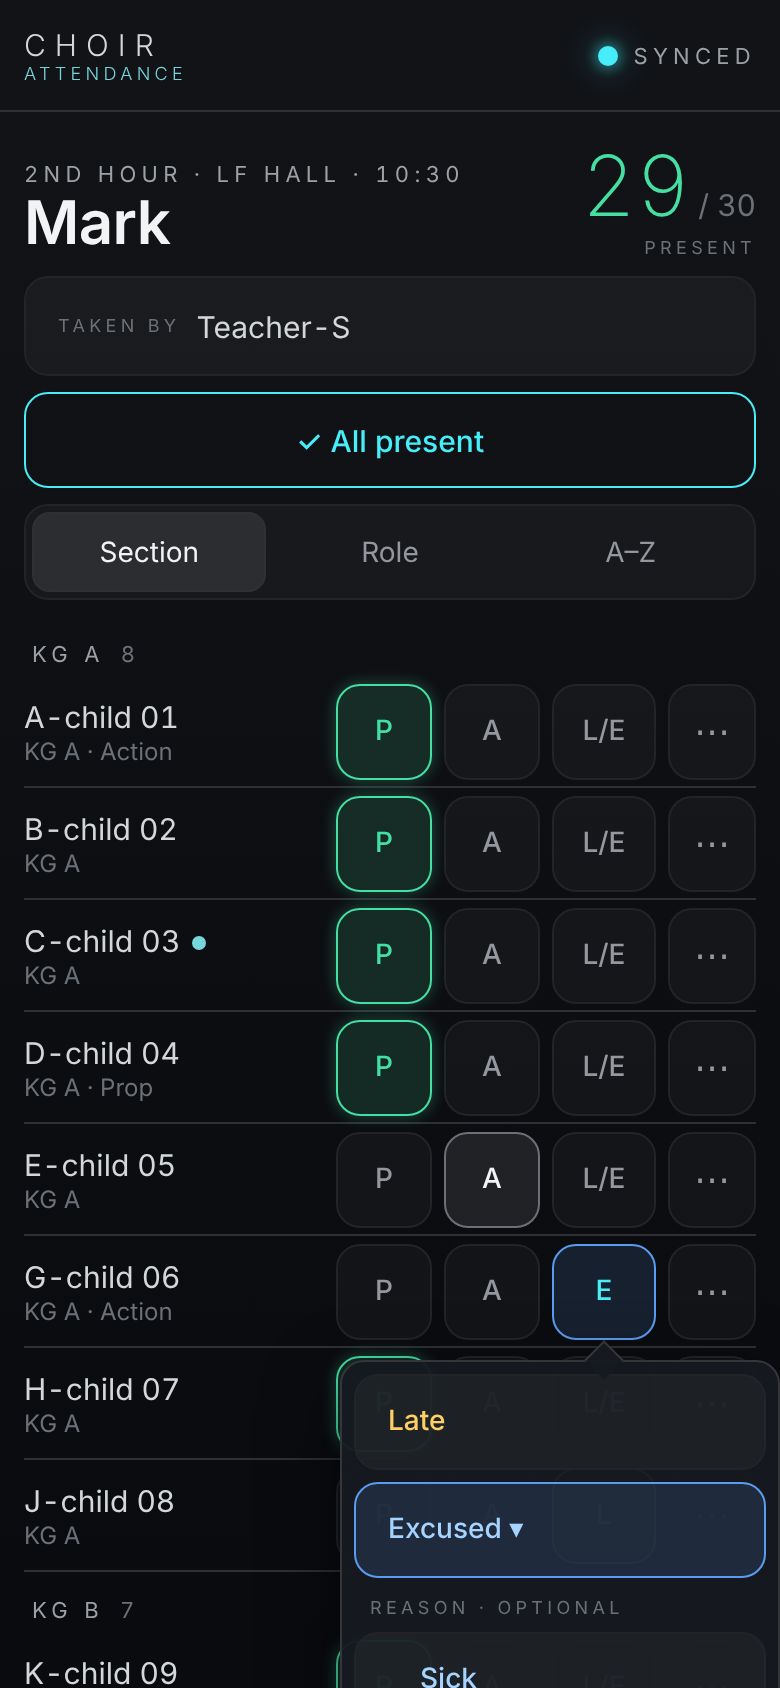
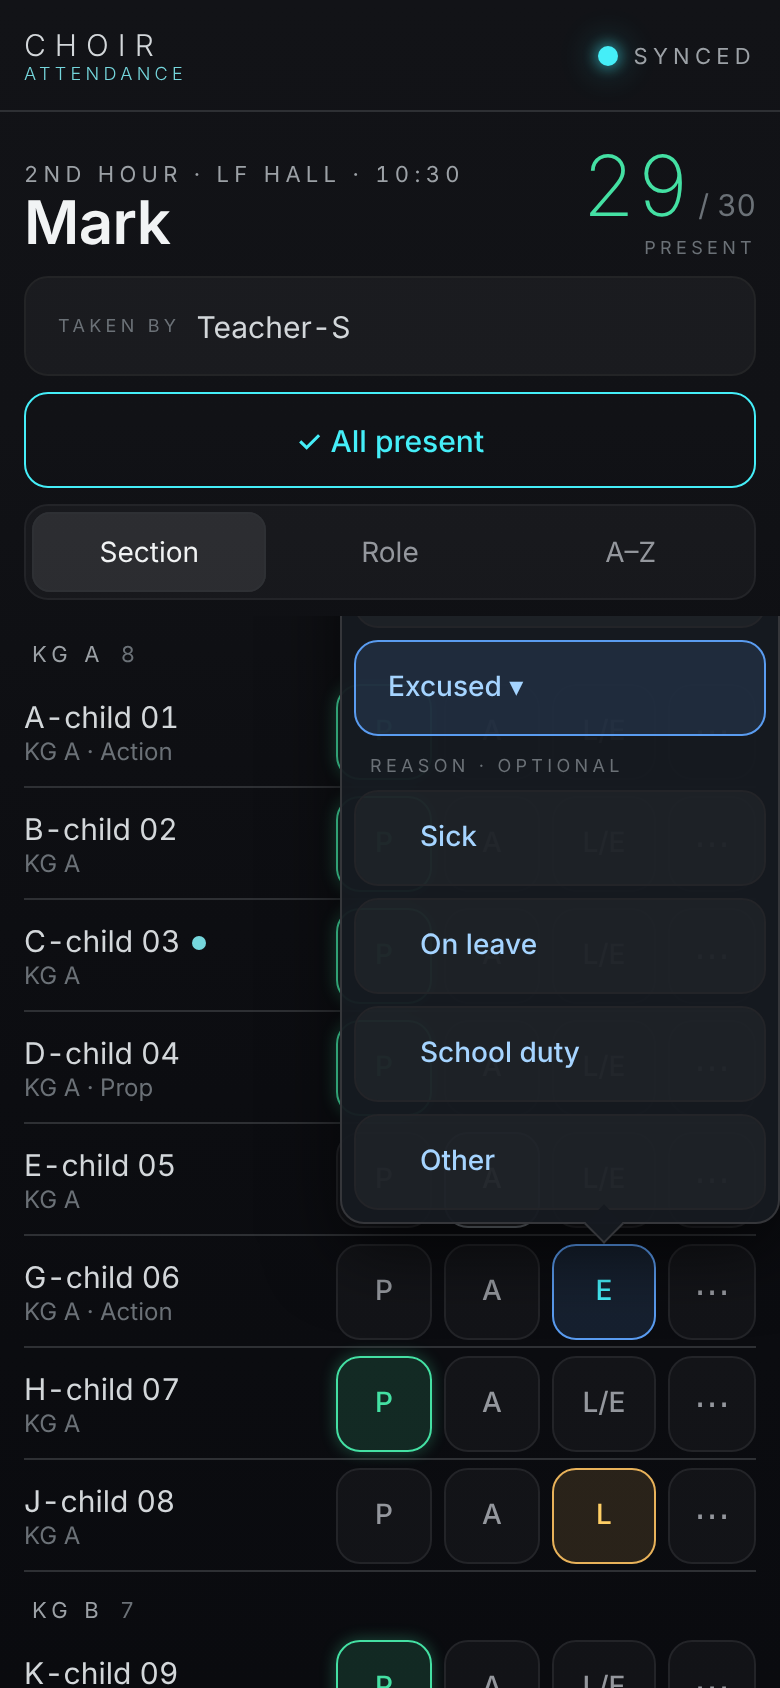
fix: flip popups above near screen bottom (BUG-2, Q27=B) v0.1.1

diff --git a/src/ui/Popover.tsx b/src/ui/Popover.tsx
@@ -1,9 +1,17 @@
-import type { ReactNode } from 'react'
-/** Anchored popup directly below its trigger (A-02 round 3). One tap outside closes (LUCID overlays). */
+import { useLayoutEffect, useRef, useState, type ReactNode } from 'react'
+import { popupSide, type Side } from './placement'
+/** Anchored popup right below its trigger; flips above near the screen bottom (A-02 Q27 = B). One tap outside closes. */
 export function Popover({ open, onClose, align = 'left', children }: { open: boolean; onClose: () => void; align?: 'left' | 'right' | 'center'; children: ReactNode }) {
+  const ref = useRef<HTMLDivElement>(null)
+  const [side, setSide] = useState<Side>('below')
+  useLayoutEffect(() => {
+    if (!open || !ref.current) return
+    const anchor = ref.current.parentElement!.getBoundingClientRect()
+    setSide(popupSide(anchor.top, anchor.bottom, ref.current.offsetHeight, window.innerHeight))
+  }, [open, children])
   if (!open) return null
   return (<>
     <div className="pop-catch" onClick={onClose} />
-    <div className={`pop pop-${align}`} role="menu"><i className="pop-arrow" />{children}</div>
+    <div ref={ref} className={`pop pop-${align} pop-${side}`} role="menu" data-side={side}><i className="pop-arrow" />{children}</div>
   </>)
 }

diff --git a/src/styles/app.css b/src/styles/app.css
@@ -77,3 +77,5 @@ textarea.field{width:calc(100% - 2*var(--lucid-space-4));margin:0 var(--lucid-sp
 .stars{display:flex;padding:0 var(--lucid-space-2)}
 .star{width:var(--lucid-touch-min);height:var(--lucid-touch-min);font-size:26px;color:var(--lucid-color-text-faint)}.star.on{color:var(--lucid-color-accent-soft)}
 .toast{position:fixed;bottom:calc(var(--lucid-safe-bottom) + 12px);left:50%;transform:translateX(-50%);min-height:52px;padding:0 24px;display:flex;align-items:center;border-radius:26px;background:var(--lucid-color-surface-raised);border:1px solid rgba(255,255,255,.12);box-shadow:0 14px 36px rgba(0,0,0,.5);z-index:40;font-size:14.5px}
+.pop.pop-above{top:auto;bottom:calc(100% + 10px)}
+.pop-above .pop-arrow{top:auto;bottom:-8px;transform:rotate(225deg)}

diff --git a/src/ui/placement.ts b/src/ui/placement.ts
@@ -1,0 +1,8 @@
+// A-02 Q27 = B (Steve, 2026-11-01 t30u): open below; flip ABOVE when there is no room below.
+import { CONFIG } from '../config'
+export type Side = 'below' | 'above'
+export function popupSide(triggerTop: number, triggerBottom: number, popupH: number, viewportH: number, margin = CONFIG.popupMargin): Side {
+  const roomBelow = viewportH - triggerBottom - margin
+  const roomAbove = triggerTop - margin
+  return roomBelow >= popupH || roomBelow >= roomAbove ? 'below' : 'above'
+}

diff --git a/src/config.ts b/src/config.ts
@@ -6,6 +6,7 @@ export const CONFIG = {
   excusedCountsAs: 'present' as 'present' | 'absent' | 'not-counted', // A-02 Q11
   lateCountsAsAttended: true, // A-02 round 3 (Late = attended)
   syncRetryMs: 5000,
+  popupMargin: 12, // px gap kept from viewport edge (Q27 flip)
   syncBatchMax: 50,
   stars: 5, // A-02 Q17 proficiency
   excusedReasons: ['Sick', 'On leave', 'School duty', 'Other'],

diff --git a/test/placement.test.ts b/test/placement.test.ts
@@ -1,0 +1,4 @@
+import { popupSide } from '../src/ui/placement'
+test('opens below when room', () => expect(popupSide(100, 148, 200, 844)).toBe('below'))
+test('flips above near the bottom (BUG-2, Q27=B)', () => expect(popupSide(760, 808, 200, 844)).toBe('above'))
+test('stays below if neither fits but below is larger', () => expect(popupSide(150, 198, 700, 844)).toBe('below'))

diff --git a/docs/BUGS.md b/docs/BUGS.md
@@ -2,7 +2,7 @@
 | ID | Status | What | Notes |
 |---|---|---|---|
 | BUG-1 | Fixed 0.1.0 | Status stuck on "Syncing N" until the 5 s retry | Drain loop added, guarded by progress; test added |
-| BUG-2 | Open | L/E and ⋯ popups on the last rows open below the screen edge | Decided "below"; needs auto-scroll into view (or flip) — ask Steve |
+| BUG-2 | Fixed 0.1.1 | L/E and ⋯ popups on the last rows opened below the screen edge | Q27 = B: flip above when no room below |
 | BUG-3 | Open | A–Z strip top offset is a CSS constant (200px) | Should measure the list top; move to config |
 | ISSUE-4 | Open | Sessions not yet generated from the timetable; one sample session | v0.2 |
 | ISSUE-5 | Open | Pull (GET) side and Manual Edits not wired in the app yet | v0.2 |

diff --git a/CHANGELOG.md b/CHANGELOG.md
@@ -1,6 +1,10 @@
 # Changelog
 All notable changes. Format: Keep a Changelog; SemVer.
 
+## [0.1.1] - 2026-11-01
+### Fixed
+- BUG-2: L/E and ⋯ popups flip above the button when there is no room below (A-02 Q27 = B). Test added.
+
 ## [0.1.0] - 2026-11-01
 ### Added
 - Marking screen (P / A / L-E popup / ⋯ menu), tap name for remark + stars, Section/Role/A–Z grouping with ported A–Z strip.
